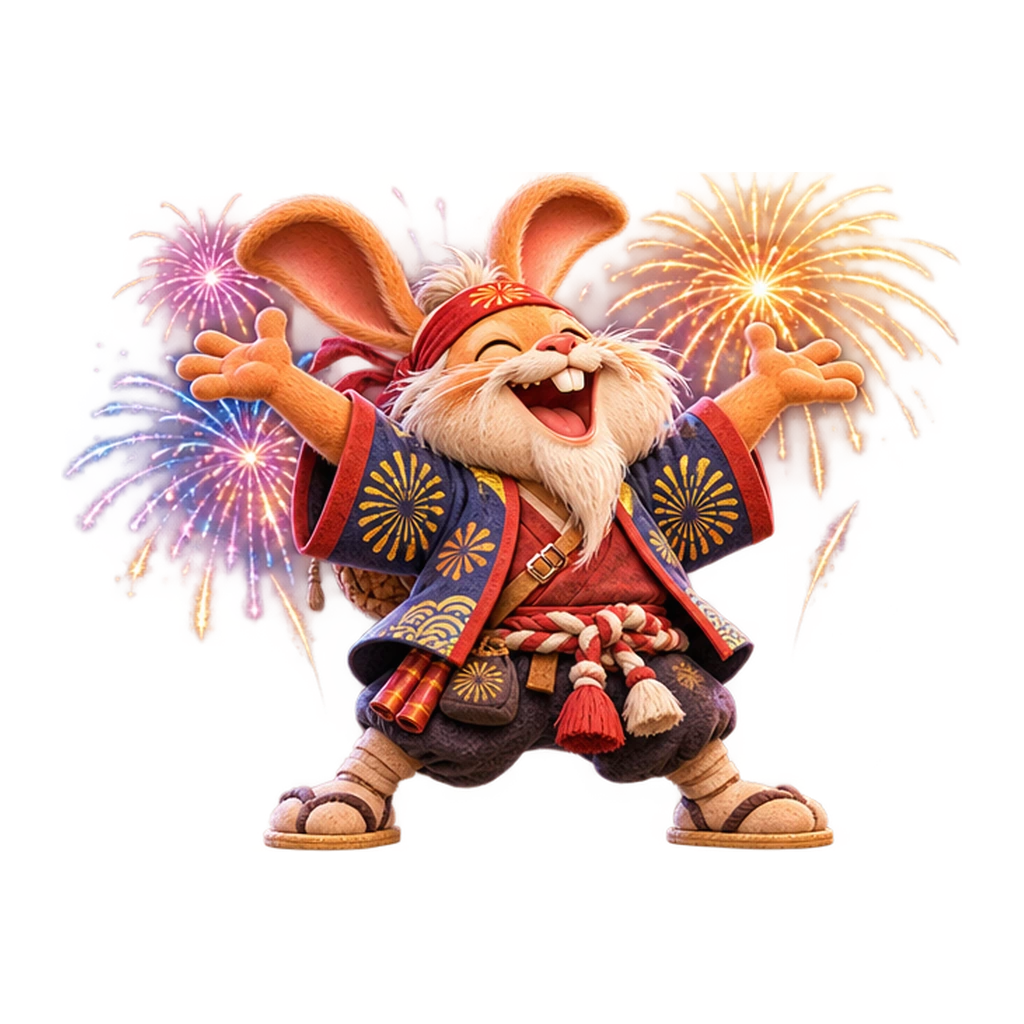
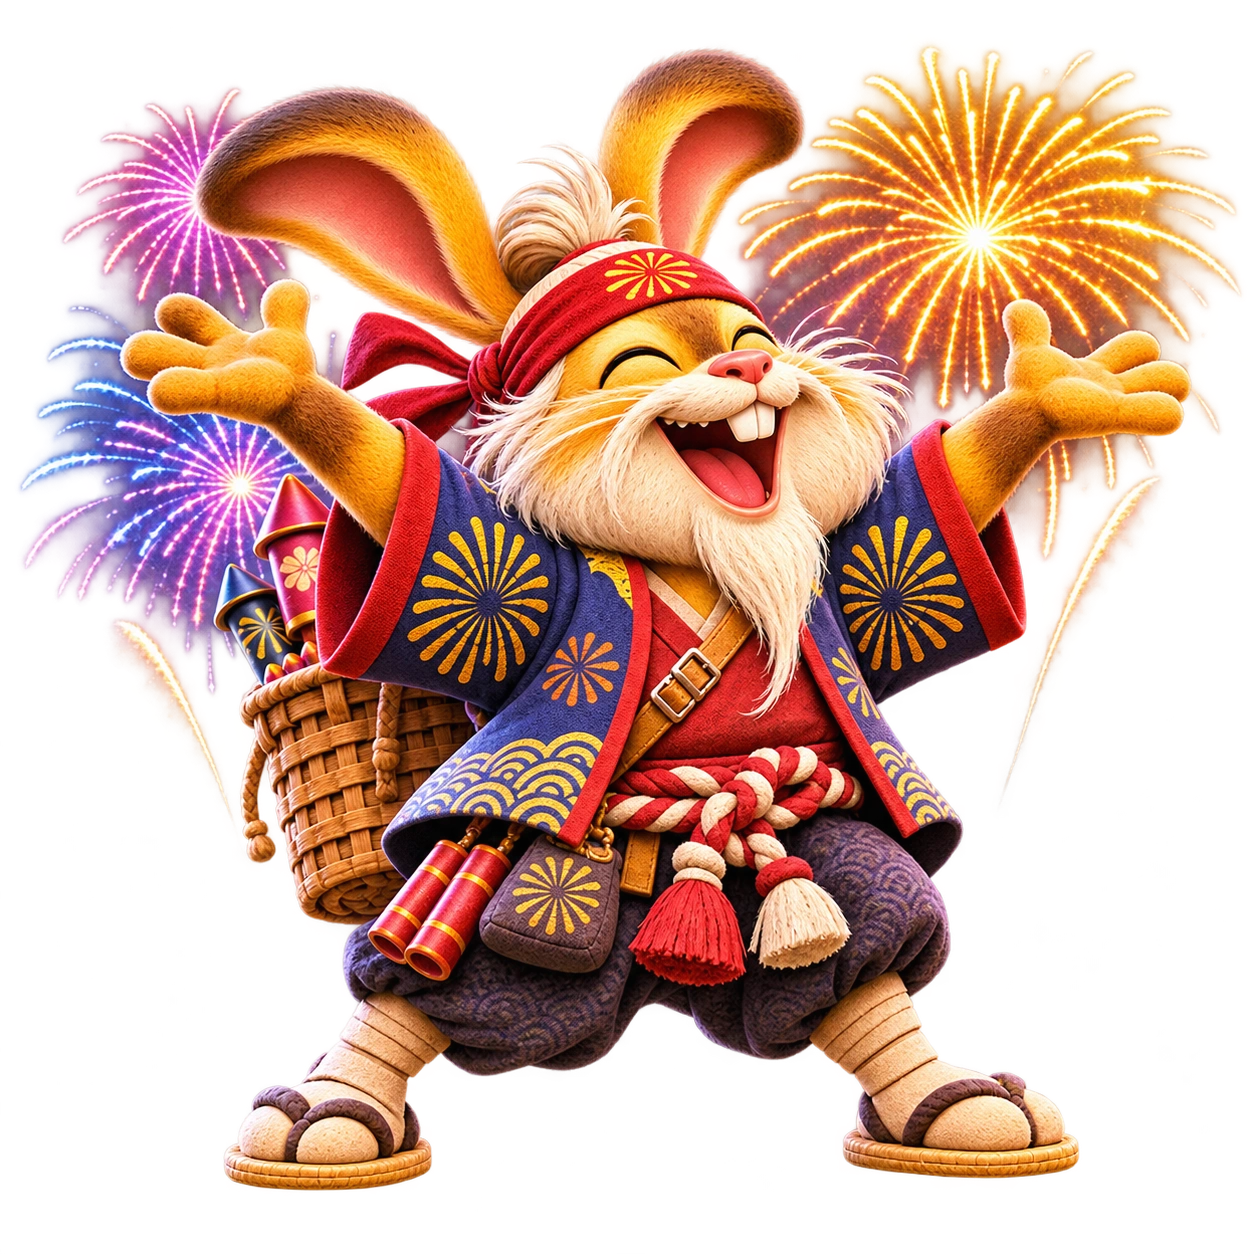
Update all four approved golden Hibana poses and refresh profile gallery

diff --git a/index.html b/index.html
@@ -1053,10 +1053,10 @@
       alt: "Official full-body portrait of the excited elderly golden-yellow rabbit fireworks seller wearing a red headband, blue festival coat and woven basket of fireworks",
       variants: [
         {label: "Official Portrait", image: "world-characters/fireworks-seller/fireworks-portrait.webp?v=20261125-yellow1", alt: "The elderly fireworks seller in his signature running pose, pointing ahead and laughing"},
-        {label: "Great Excitement", image: "world-characters/fireworks-seller/fireworks-celebration.webp", alt: "The old rabbit throws both arms wide and laughs joyfully with colorful firework bursts above him"},
-        {label: "Soot-Covered Surprise", image: "world-characters/fireworks-seller/fireworks-soot-surprise.webp", alt: "The startled rabbit covered in harmless soot after a firework accident, holding a spent smoking cylinder"},
-        {label: "Proud Maker", image: "world-characters/fireworks-seller/fireworks-proud-maker.webp", alt: "The seated rabbit fireworks artisan admiring a decorated rocket among his festival supplies"},
-        {label: "Can't Stay Still", image: "world-characters/fireworks-seller/fireworks-running.webp", alt: "The energetic fireworks vendor sprints forward with his basket of colorful rockets"}
+        {label: "Great Excitement", image: "world-characters/fireworks-seller/fireworks-celebration.webp?v=20261126-golden", alt: "The old rabbit throws both arms wide and laughs joyfully with colorful firework bursts above him"},
+        {label: "Soot-Covered Surprise", image: "world-characters/fireworks-seller/fireworks-soot-surprise.webp?v=20261126-golden", alt: "The startled rabbit covered in harmless soot after a firework accident, holding a spent smoking cylinder"},
+        {label: "Proud Maker", image: "world-characters/fireworks-seller/fireworks-proud-maker.webp?v=20261126-golden", alt: "The seated rabbit fireworks artisan admiring a decorated rocket among his festival supplies"},
+        {label: "Can't Stay Still", image: "world-characters/fireworks-seller/fireworks-running.webp?v=20261126-golden", alt: "The energetic fireworks vendor sprints forward with his basket of colorful rockets"}
       ]
     },
     komugi: {
